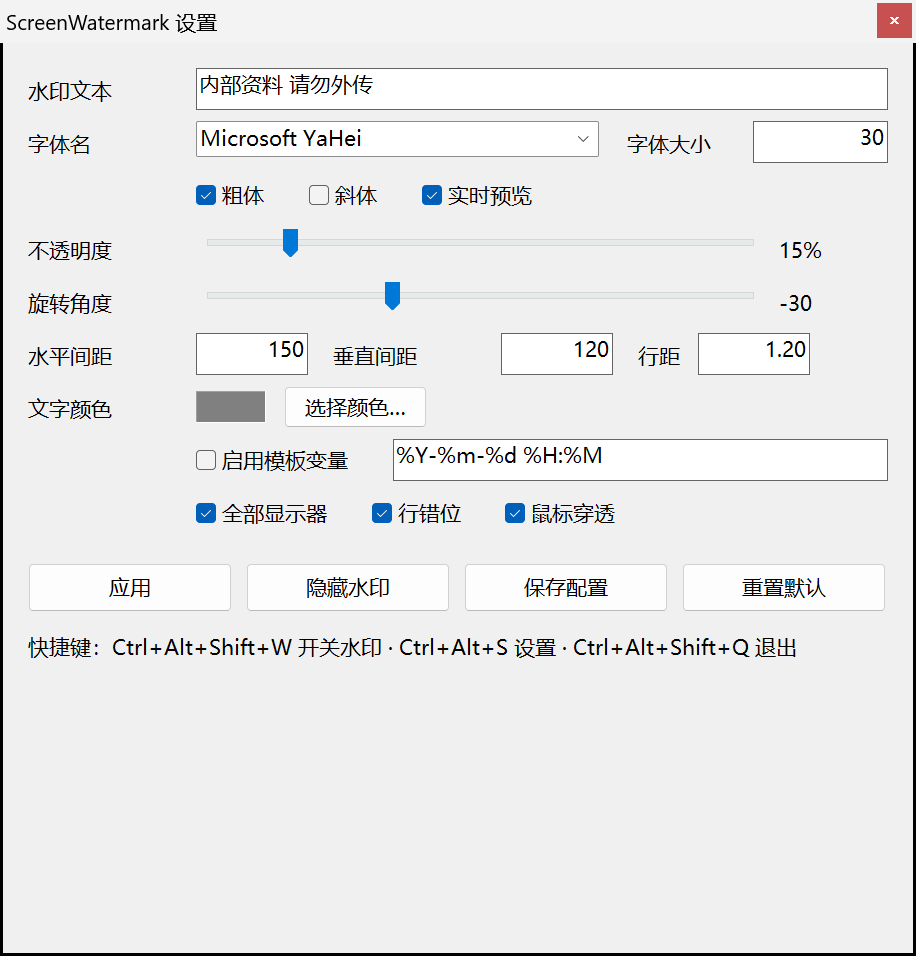
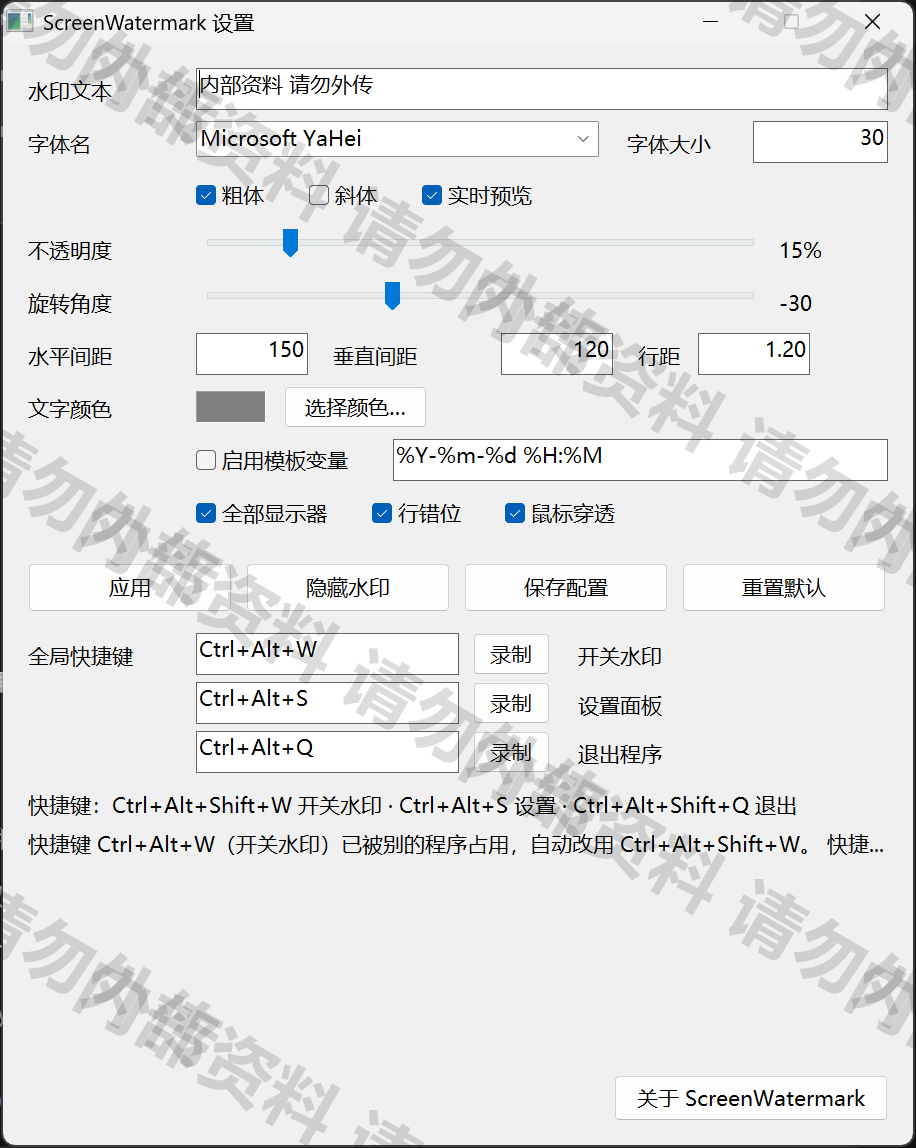
托盘菜单和设置面板加「关于」，点了打开项目仓库
- util：新增 kRepoUrl 常量和 OpenUrl()（ShellExecute 交默认浏览器，失败只写日志不弹窗）
- tray：菜单最下面加分隔线 + 「关于 ScreenWatermark」（kCmdAbout = 40006）
- settings：右下角空白处加「关于 ScreenWatermark」按钮（IDC_ABOUT=1034），
  位置按客户区底边算而不是跟着上面的 y 走，以后加行也不会把它挤没；
  新增 on_about 回调，面板本身不认识 URL
- main：托盘命令和面板按钮都走 OpenUrl(kRepoUrl)，URL 只在 util 里定义一处
- docs/shots：刷新 C++ 面板截图和 README 拼图（旧图里还带着那个红叉）

实测：面板右下角「关于」按钮 id=1034、文本正确、离右边 28px 离底边 27px。
编译 0 error 0 warning（中途 ShellExecuteW 需要补 shellapi.h，已加）。

diff --git a/cpp/src/util.cpp b/cpp/src/util.cpp
@@ -5,6 +5,7 @@
 #include <winsock2.h>
 
 #include <iphlpapi.h>
+#include <shellapi.h>   // ShellExecuteW（「关于」打开仓库用）
 #include <tlhelp32.h>
 
 #include <cstdio>
@@ -16,6 +17,7 @@ namespace sw {
 
 const wchar_t* const kAppName = L"ScreenWatermark";
 const wchar_t* const kAppVersion = L"1.0.0";
+const wchar_t* const kRepoUrl = L"https://github.com/WZL0813/ScreenWatermark";
 const wchar_t* const kMutexName = L"Local\\ScreenWatermark_SingleInstance_9F2C";
 const wchar_t* const kMsgWndClass = L"ScreenWatermarkMsgWnd";
 const wchar_t* const kOverlayWndClass = L"ScreenWatermarkOverlayWnd";
@@ -267,8 +269,7 @@ bool SetAutostart(bool on) {
     return ok;
 }
 
-int CountOtherInstances() {
-    // 只按「可执行文件名」比，不比全路径：用户完全可能把不同版本的 exe 拷到不同目录，
+int CountOtherInstances() {    // 只按「可执行文件名」比，不比全路径：用户完全可能把不同版本的 exe 拷到不同目录，
     // 那样比路径就漏了。四个实现的 exe 都叫 ScreenWatermark.exe，正好一网打尽。
     const DWORD me = ::GetCurrentProcessId();
     HANDLE snap = ::CreateToolhelp32Snapshot(TH32CS_SNAPPROCESS, 0);
@@ -284,6 +285,13 @@ int CountOtherInstances() {
     }
     ::CloseHandle(snap);
     return others;
+}
+
+void OpenUrl(const std::wstring& url) {
+    // 交给 shell 用默认浏览器打开。返回值 >32 才算成功，失败只记日志不弹窗 ——
+    // 「关于」点不开不值得打断用户
+    HINSTANCE r = ::ShellExecuteW(nullptr, L"open", url.c_str(), nullptr, nullptr, SW_SHOWNORMAL);
+    if (reinterpret_cast<INT_PTR>(r) <= 32) DebugLog(L"打开链接失败(%p): %s", r, url.c_str());
 }
 
 std::wstring UserName() {

diff --git a/cpp/src/settings.cpp b/cpp/src/settings.cpp
@@ -52,6 +52,7 @@ enum : int {
     IDC_HK_QUIT,
     IDC_HK_QUIT_REC,
     IDC_HK_STATUS,
+    IDC_ABOUT,
     IDC_TIMER_TICK = 2001,
     IDC_TIMER_RECORD = 2002,
 };
@@ -377,6 +378,16 @@ void Settings::BuildControls(HWND host) {
     y += px(22);
     S(IDC_STATUS, L"STATIC", L"", SS_LEFT | SS_ENDELLIPSIS, px(kMarginX), y, right - px(kMarginX),
       px(20));
+
+    // 17. 「关于」钉在右下角空白处，点了打开项目仓库。
+    // 位置相对客户区底边算，不跟着上面那串 y 走 —— 免得以后加行把它挤到看不见的地方
+    {
+        const wchar_t* about = L"关于 ScreenWatermark";
+        int aw = text_w(about) + px(26);
+        int ah = px(26);
+        S(IDC_ABOUT, L"BUTTON", about, BS_PUSHBUTTON, right - aw,
+          px(kClientH) - px(kMarginX) - ah, aw, ah);
+    }
 
     LoadFontList();
 }
@@ -910,6 +921,10 @@ LRESULT Settings::PanelProc(HWND h, UINT m, WPARAM w, LPARAM l) {
                 if (on_save) on_save(cfg_);
                 dirty_ = false;
                 ::SetDlgItemTextW(h, IDC_STATUS, L"配置已保存到 config.json");
+                return 0;
+            }
+            if (id == IDC_ABOUT && code == BN_CLICKED) {
+                if (on_about) on_about();
                 return 0;
             }
             if (id == IDC_RESET && code == BN_CLICKED) {

diff --git a/cpp/src/util.h b/cpp/src/util.h
@@ -37,6 +37,8 @@ struct MonitorRect {
 // 程序版本号：--version 和托盘提示都用它
 extern const wchar_t* const kAppName;
 extern const wchar_t* const kAppVersion;
+// 项目仓库地址：托盘菜单和设置面板的「关于」都跳这里
+extern const wchar_t* const kRepoUrl;
 
 // 单实例互斥体名、消息窗口类名、overlay 窗口类名
 extern const wchar_t* const kMutexName;
@@ -81,6 +83,8 @@ RECT PrimaryMonitorRect();
 UINT DpiForWindowSafe(HWND hwnd);  // 拿不到就退 96，绝不让字号算成 0
 bool IsAutostartEnabled();
 bool SetAutostart(bool on);
+// 用系统默认浏览器打开一个 URL（托盘/面板的「关于」用）。失败只写日志，不弹窗
+void OpenUrl(const std::wstring& url);
 // 除自己以外，还有几个叫 ScreenWatermark.exe 的进程在跑。
 // 单实例互斥体只挡得住同一个版本；不同实现（Python/C#/Rust 的 exe 同名）各有各的
 // 锁，能同时跑，屏幕上就会叠出多层水印 —— 看着像渲染 bug，其实是两个程序。

diff --git a/cpp/src/main.cpp b/cpp/src/main.cpp
@@ -113,6 +113,7 @@ static LRESULT CALLBACK MsgWndProc(HWND h, UINT m, WPARAM w, LPARAM l) {
                     break;
                 }
                 case kCmdQuit: ::PostMessageW(h, kMsgQuit, 0, 0); break;
+                case kCmdAbout: OpenUrl(kRepoUrl); break;
                 default: break;
             }
             return 0;
@@ -402,6 +403,8 @@ int WINAPI wWinMain(HINSTANCE inst, HINSTANCE, LPWSTR, int) {
     app.settings.on_hotkeys_suspend = [self](bool suspend) {
         self->hotkeys.Enable(self->msg_hwnd, !suspend);
     };
+    // 面板右下角的「关于」：URL 只在 util 里定义一处，面板本身不认识链接
+    app.settings.on_about = []() { OpenUrl(kRepoUrl); };
     // 面板的 owner 设成消息窗口：这样面板既能不进任务栏 / Alt+Tab，
     // 又不需要 WS_EX_TOOLWINDOW —— 那个样式会让 Win11 把关闭按钮一直画成红色悬停态
     app.settings.SetOwner(app.msg_hwnd);

diff --git a/cpp/src/tray.cpp b/cpp/src/tray.cpp
@@ -79,6 +79,9 @@ void Tray::ShowMenu(bool enabled, bool autostart) {
                   L"开机自启");
     ::AppendMenuW(menu, MF_SEPARATOR, 0, nullptr);
     ::AppendMenuW(menu, MF_STRING, kCmdQuit, L"退出");
+    // 「关于」放最后：点了用默认浏览器打开项目仓库
+    ::AppendMenuW(menu, MF_SEPARATOR, 0, nullptr);
+    ::AppendMenuW(menu, MF_STRING, kCmdAbout, L"关于 ScreenWatermark");
 
     POINT pt{};
     ::GetCursorPos(&pt);

diff --git a/cpp/src/settings.h b/cpp/src/settings.h
@@ -23,6 +23,8 @@ public:
     std::function<void(const Config&)> on_hotkeys_changed;
     // 录制期间要整体挂起/恢复全局热键，否则用户按自己的热键会先把水印关了
     std::function<void(bool)> on_hotkeys_suspend;
+    // 点右下角「关于」→ 由 main 决定打开哪个链接（面板不认识 URL）
+    std::function<void()> on_about;
 
     ~Settings();
 

diff --git a/cpp/src/tray.h b/cpp/src/tray.h
@@ -15,6 +15,7 @@ enum : UINT {
     kCmdReloadConfig = 40003,
     kCmdAutostart = 40004,
     kCmdQuit = 40005,
+    kCmdAbout = 40006,
 };
 
 class Tray {
